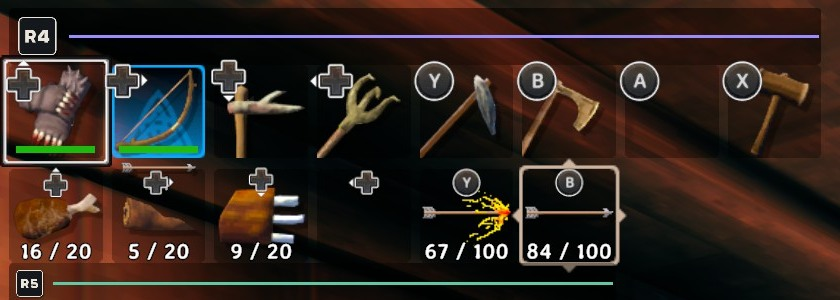
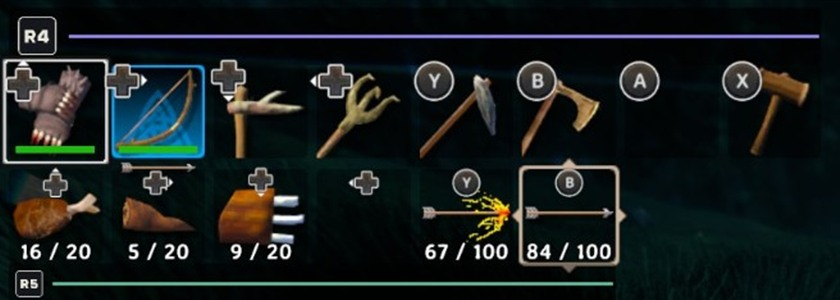
Add hotbar_neutral and a matching hotbar_palette
Both from the same outdoor spot, so the colors table compares the setting
alone. The checklist is now complete.

diff --git a/docs/images/README.md b/docs/images/README.md
@@ -19,7 +19,7 @@ Switching settings live can leave labels stale (known issue). If a shot looks wr
 
 Hotbar colors and art (HUD):
 
-- [ ] **Hotbar group colors** `Neutral` → `hotbar_neutral.jpg`: the hotbar and AzuEPI's bar under it, with the R4 and R5 groups.
+- [x] **Hotbar group colors** `Neutral` → `hotbar_neutral.jpg`: the hotbar and AzuEPI's bar under it, with the R4 and R5 groups.
 - [x] **Hotbar group colors** `Palette` → `hotbar_palette.jpg`: the same view. Leave `Palette` on from here.
 - [x] `buttons_valheim.jpg`: close-up of hotbar slots 1–4 and the R4 prefix (R4 in Steam Deck art, D-pad in Valheim's art).
 - [x] **Glyphs used by mod** `SteamDeck` → `buttons_steamdeck.jpg`: the same close-up (all Steam Deck art). Set it back to `Valheim`.
@@ -75,9 +75,8 @@ Groups with quick slots (`groups_one_*_quickslots` are done):
 ## Notes on the shots taken (2026-11-09)
 
 - Taken with Steam's screenshot key at 2560 × 1600 and cropped at full size; saved as JPEG (the screenshots are JPEG already, and PNG made the folder 15 MB instead of 2 MB).
-- `groups_one_hud_quickslots` and `hotbar_palette` are the same shot. `groups_one_inventory_quickslots` is from the earlier batch (also `Palette`).
+- `hotbar_neutral` and `hotbar_palette` are the same outdoor spot, from 2000 × 1250 copies scaled up to the other HUD crops' size. `groups_one_inventory_quickslots` is from the earlier batch (also `Palette`).
 - `badges_mod` uses the no-groups mapping, the only inventory shot with the mod on and 6 quick slots in the batch. Retake with your own mapping if the different labels distract.
-- Still to take: `hotbar_neutral`.
 
 
 ## What each table shows
